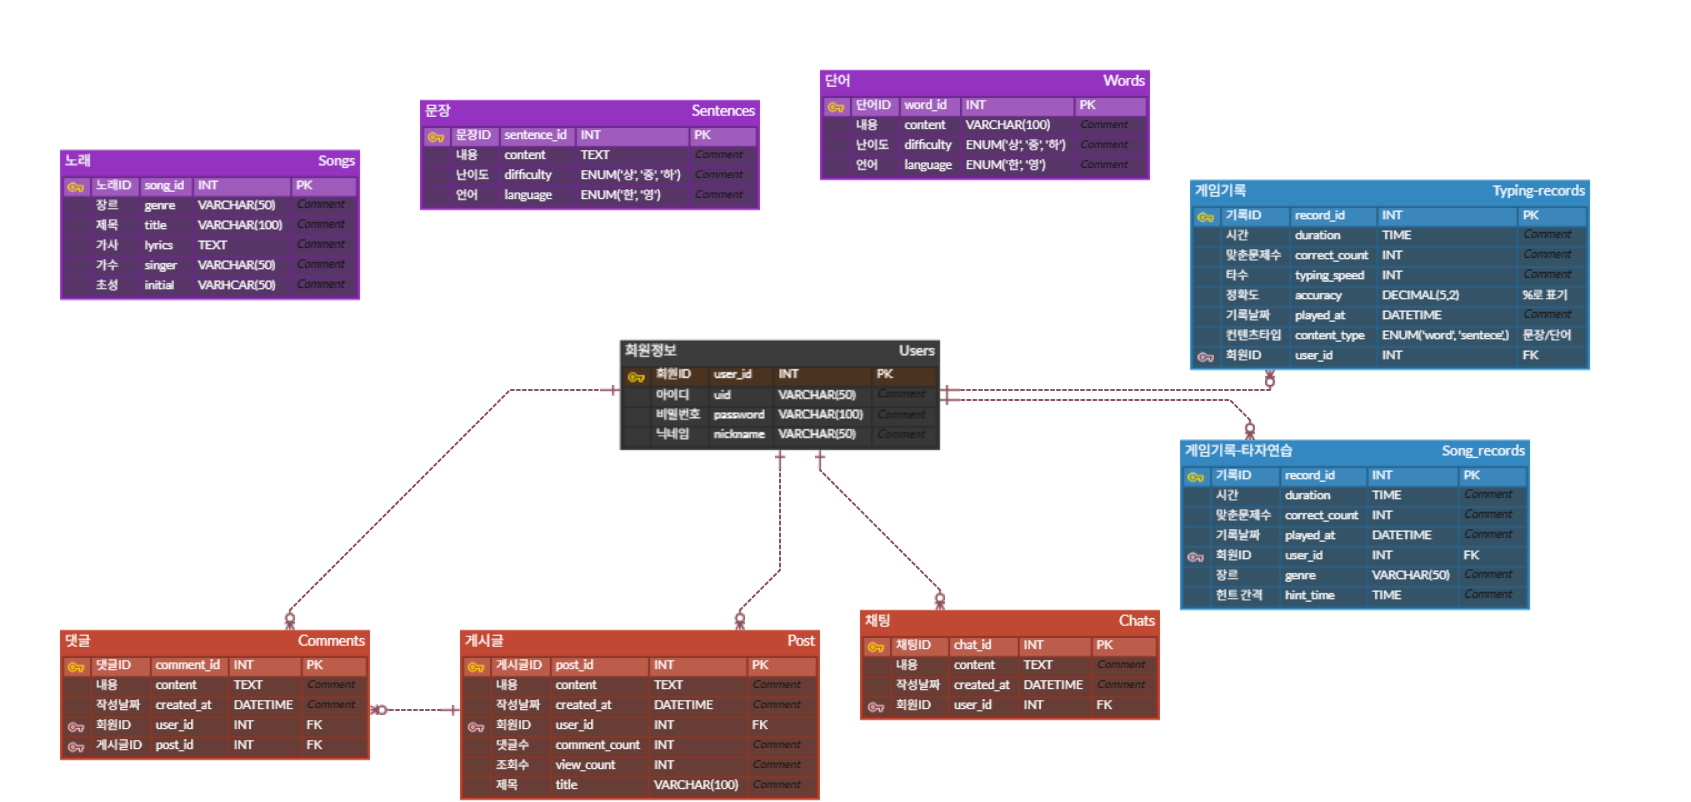
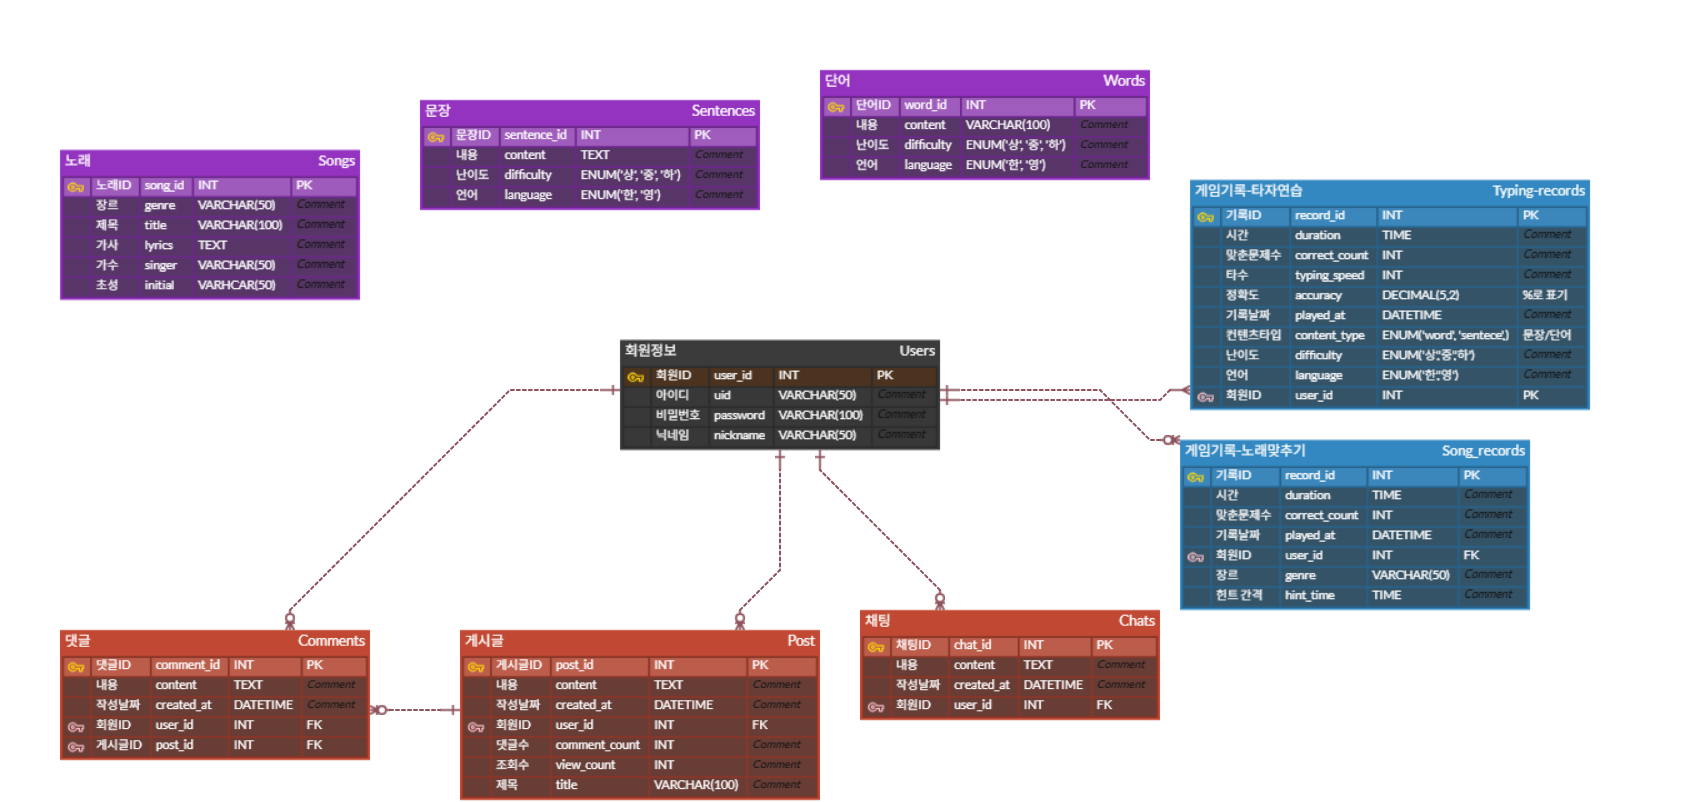
[docs] Record테이블 분리-> sql문 수정

diff --git a/JAVA_TypingTrainer/src/main/java/com/typing/service/Record/RecordService.java b/JAVA_TypingTrainer/src/main/java/com/typing/service/Record/RecordService.java
@@ -1,0 +1,5 @@
+package com.typing.service.Record;
+
+public interface RecordService {
+
+}

diff --git a/JAVA_TypingTrainer/src/main/java/com/typing/service/Record/RecordServiceImpl.java b/JAVA_TypingTrainer/src/main/java/com/typing/service/Record/RecordServiceImpl.java
@@ -1,0 +1,5 @@
+package com.typing.service.Record;
+
+public class RecordServiceImpl {
+
+}
